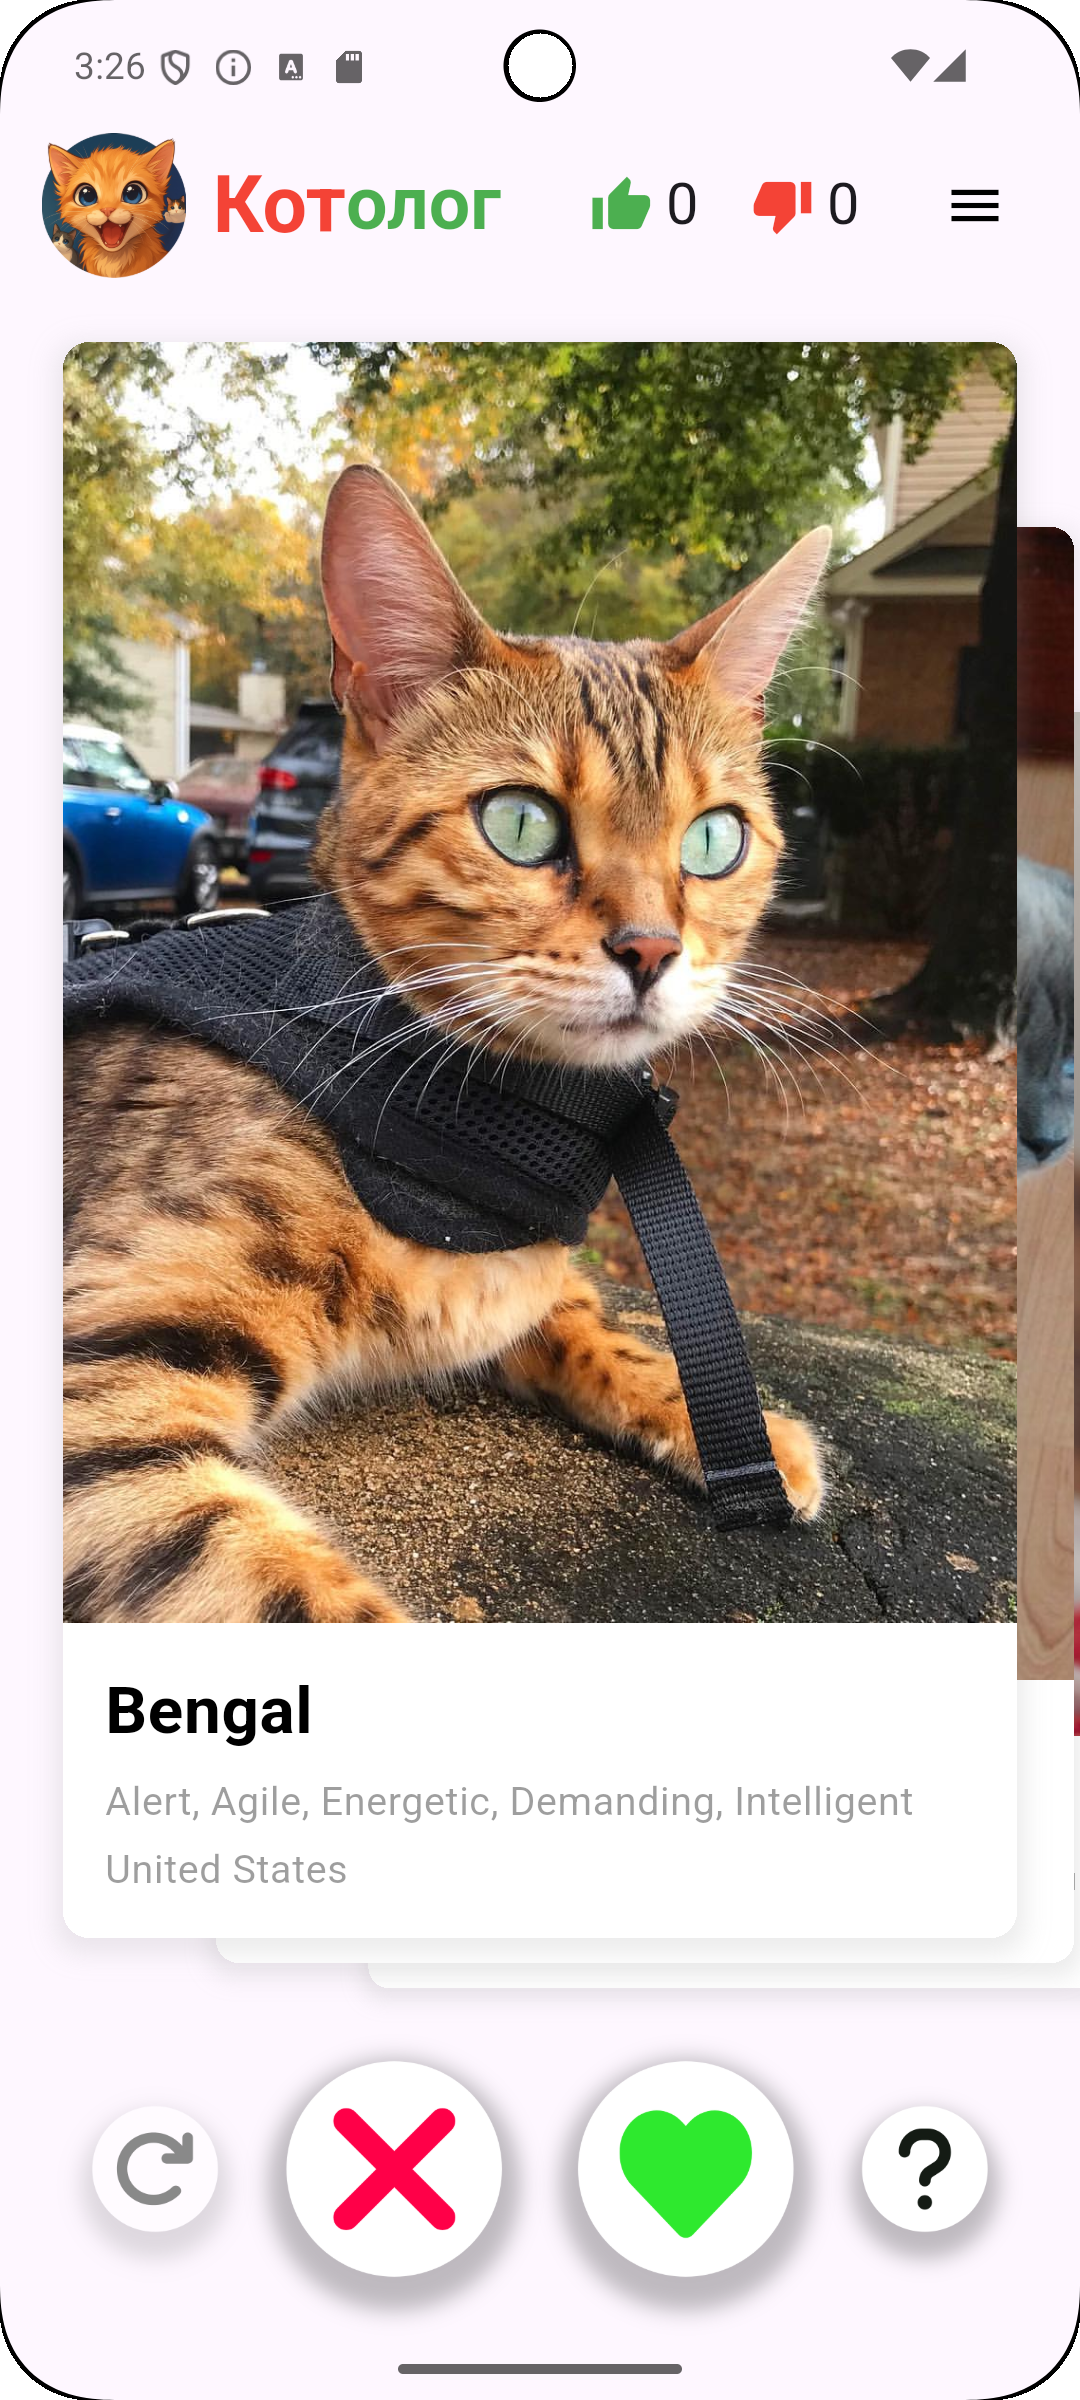
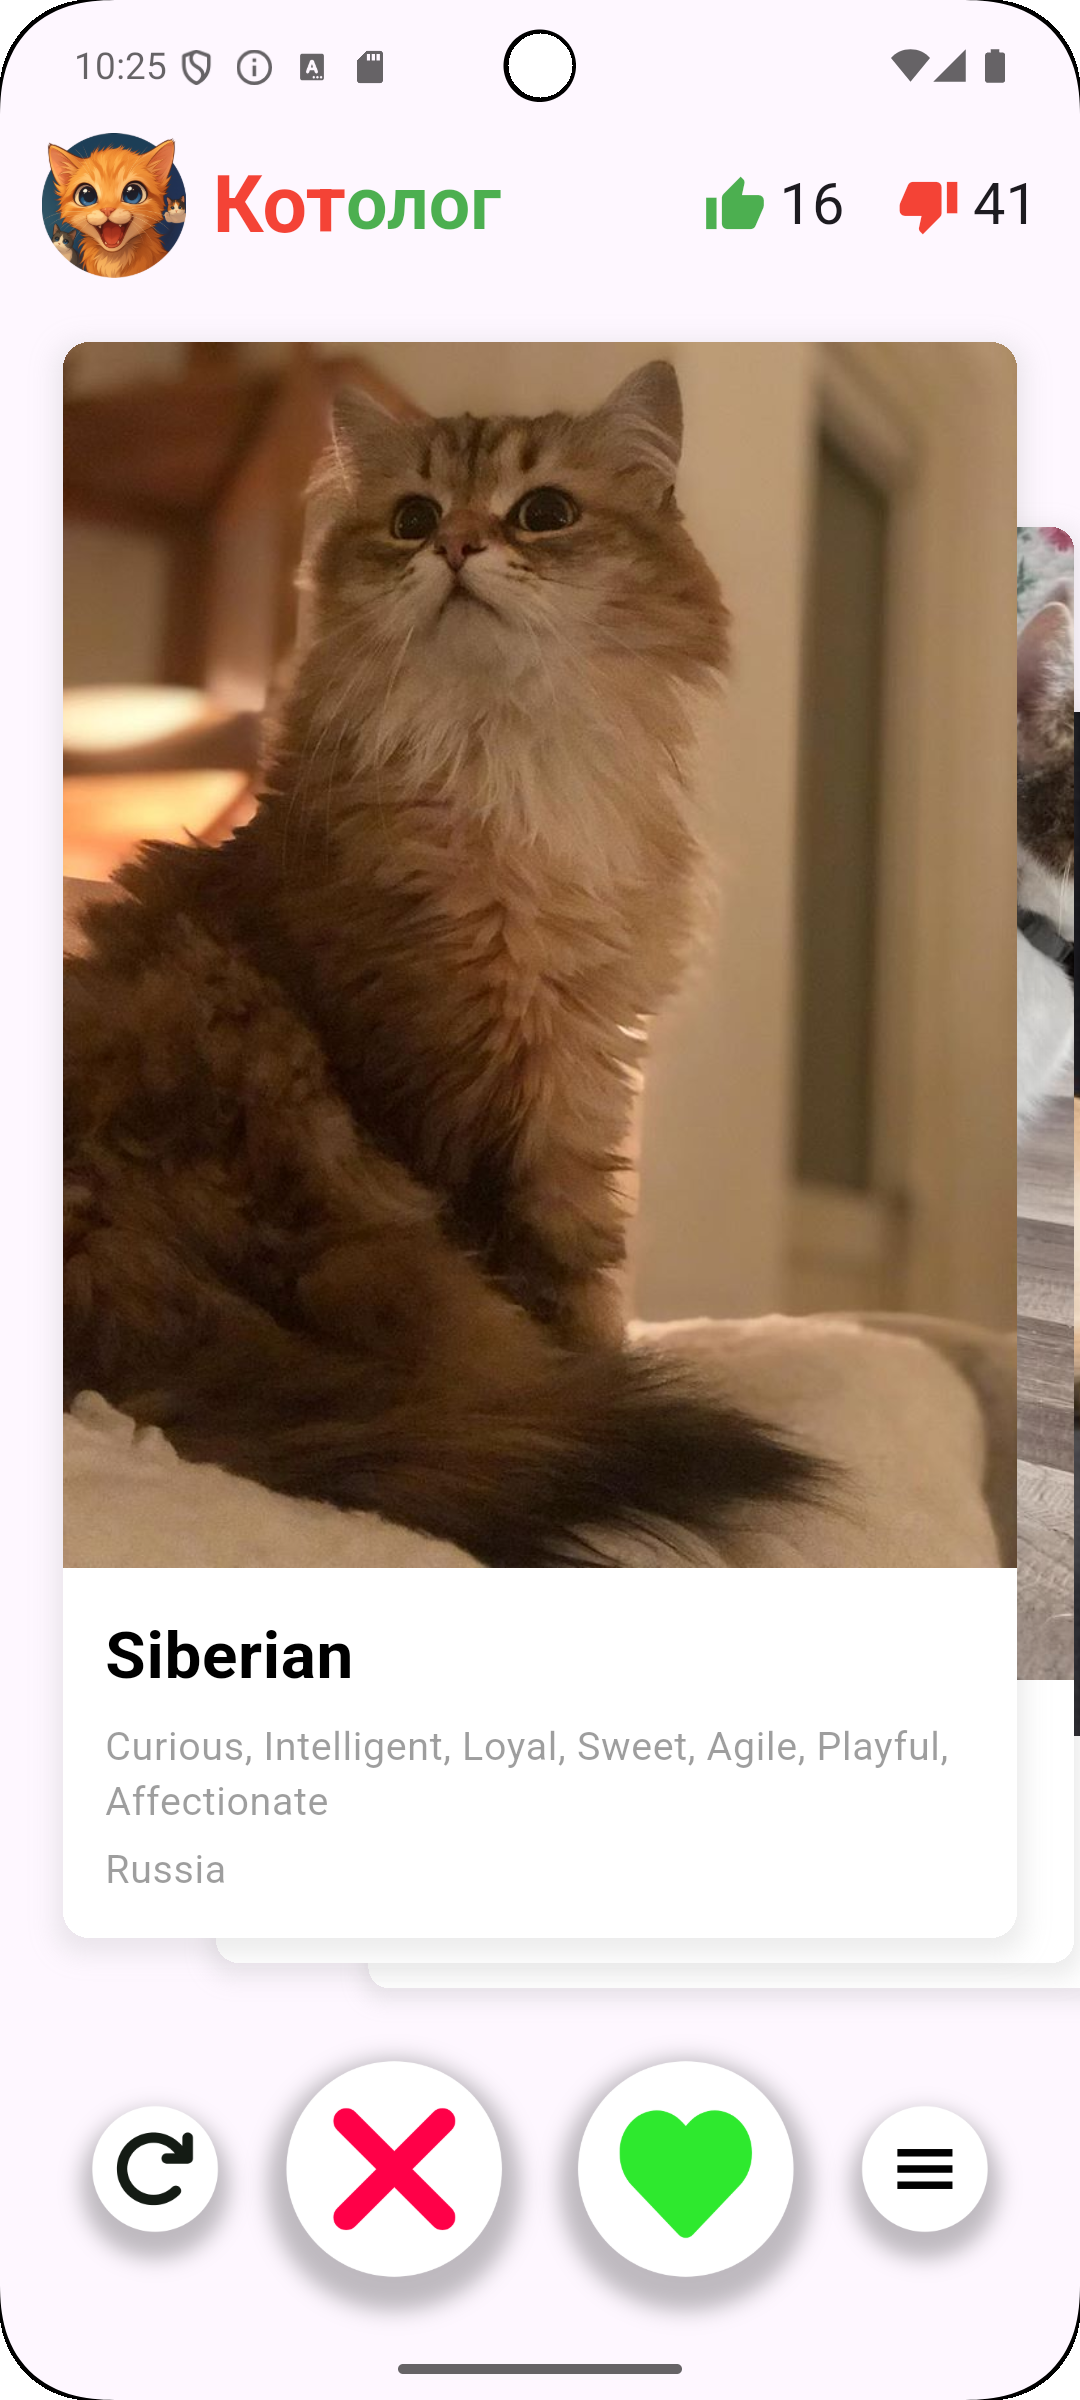
refactor: update imports and add dotenv change design and screenshots

diff --git a/lib/presentation/screens/home_screen.dart b/lib/presentation/screens/home_screen.dart
@@ -2,21 +2,21 @@ import 'package:flutter/material.dart';
 import 'package:flutter_bloc/flutter_bloc.dart';
 import 'package:flutter_card_swiper/flutter_card_swiper.dart';
 import 'dart:ui';
-import '../../data/models/cat.dart';
-import '../../domain/services/cat_service.dart';
-import '../blocs/liked_cats/liked_cats_state.dart';
-import '../widgets/cat_card.dart';
-import '../widgets/like_button.dart';
-import '../widgets/dislike_button.dart';
+import 'package:cat_tinder/data/models/cat.dart';
+import 'package:cat_tinder/data/services/cat_service.dart';
+import 'package:cat_tinder/presentation/blocs/liked_cats_state.dart';
+import 'package:cat_tinder/presentation/widgets/cat_card.dart';
+import 'package:cat_tinder/presentation/widgets/like_button.dart';
+import 'package:cat_tinder/presentation/widgets/dislike_button.dart';
 import 'detail_screen.dart';
 import 'liked_cats_screen.dart';
-import '../blocs/liked_cats/liked_cats_cubit.dart';
+import 'package:cat_tinder/presentation/blocs/liked_cats_cubit.dart';
 
 class HomeScreen extends StatefulWidget {
   const HomeScreen({super.key});
 
   @override
-  _HomeScreenState createState() => _HomeScreenState();
+  State<HomeScreen> createState() => _HomeScreenState();
 }
 
 class _HomeScreenState extends State<HomeScreen> {
@@ -128,8 +128,11 @@ class _HomeScreenState extends State<HomeScreen> {
     );
   }
 
-  void _onInfoTap() {
-    _onCardTap(_catBuffer[_index]);
+  void _onMenuTap() {
+    Navigator.push(
+      context,
+      MaterialPageRoute(builder: (_) => const LikedCatsScreen()),
+    );
   }
 
   void _showErrorDialog() {
@@ -192,18 +195,6 @@ class _HomeScreenState extends State<HomeScreen> {
                     const Icon(Icons.thumb_down, color: Colors.red),
                     const SizedBox(width: 5),
                     Text('$dislikeCount'),
-                    const SizedBox(width: 20),
-                    IconButton(
-                      icon: const Icon(Icons.menu, color: Colors.black),
-                      onPressed: () {
-                        Navigator.push(
-                          context,
-                          MaterialPageRoute(
-                            builder: (_) => const LikedCatsScreen(),
-                          ),
-                        );
-                      },
-                    ),
                   ],
                 );
               },
@@ -220,17 +211,25 @@ class _HomeScreenState extends State<HomeScreen> {
                   child:
                       _catBuffer.isEmpty
                           ? const Center(
-                            child: Row(
+                            child: Column(
                               mainAxisAlignment: MainAxisAlignment.center,
-                              crossAxisAlignment: CrossAxisAlignment.center,
-                              spacing: 10,
                               children: [
-                                CircularProgressIndicator(),
                                 Text(
                                   'Загружаем котиков...',
                                   style: TextStyle(
-                                    fontSize: 16,
+                                    fontSize: 20,
                                     color: Colors.grey,
+                                  ),
+                                ),
+                                SizedBox(height: 5),
+                                SizedBox(
+                                  width: 200,
+                                  child: LinearProgressIndicator(
+                                    minHeight: 3,
+                                    backgroundColor: Colors.black12,
+                                    valueColor: AlwaysStoppedAnimation<Color>(
+                                      Colors.grey,
+                                    ),
                                   ),
                                 ),
                               ],
@@ -284,10 +283,10 @@ class _HomeScreenState extends State<HomeScreen> {
                             () => controller.swipe(CardSwiperDirection.right),
                       ),
                       FloatingActionButton(
-                        onPressed: _onInfoTap,
+                        onPressed: _onMenuTap,
                         backgroundColor: Colors.transparent,
                         shape: const CircleBorder(),
-                        child: Image.asset('assets/buttons/info.png'),
+                        child: Image.asset('assets/buttons/menu.png'),
                       ),
                     ],
                   ),

diff --git a/lib/presentation/screens/liked_cats_screen.dart b/lib/presentation/screens/liked_cats_screen.dart
@@ -4,8 +4,8 @@ import 'package:cached_network_image/cached_network_image.dart';
 import 'package:flutter/material.dart';
 import 'package:flutter_bloc/flutter_bloc.dart';
 import 'package:intl/intl.dart';
-import '../blocs/liked_cats/liked_cats_cubit.dart';
-import '../blocs/liked_cats/liked_cats_state.dart';
+import 'package:cat_tinder/presentation/blocs/liked_cats_cubit.dart';
+import 'package:cat_tinder/presentation/blocs/liked_cats_state.dart';
 import 'detail_screen.dart';
 
 class LikedCatsScreen extends StatefulWidget {
@@ -29,8 +29,8 @@ class _LikedCatsScreenState extends State<LikedCatsScreen> {
     return Scaffold(
       appBar: AppBar(
         title: const Text(
-          'Кладесь котиков',
-          style: TextStyle(fontSize: 30, fontWeight: FontWeight.bold),
+          'Кладезь котиков',
+          style: TextStyle(fontSize: 25, fontWeight: FontWeight.bold),
         ),
         actions: [
           IconButton(
@@ -47,7 +47,10 @@ class _LikedCatsScreenState extends State<LikedCatsScreen> {
             children: [
               if (_showFilter && state.breeds.isNotEmpty)
                 Padding(
-                  padding: const EdgeInsets.symmetric(horizontal: 16.0, vertical: 5.0),
+                  padding: const EdgeInsets.symmetric(
+                    horizontal: 16.0,
+                    vertical: 5.0,
+                  ),
                   child: DropdownButton<String>(
                     hint: const Text('Фильтр по породе'),
                     value: state.selectedBreed,

diff --git a/lib/data/services/cat_service.dart b/lib/data/services/cat_service.dart
@@ -1,0 +1,30 @@
+import 'dart:convert';
+import 'package:flutter_dotenv/flutter_dotenv.dart';
+import 'package:http/http.dart' as http;
+import 'package:cat_tinder/data/models/cat.dart';
+import 'package:flutter/material.dart';
+
+class CatService {
+  final String? apiKey = dotenv.env['API_KEY'];
+  final String? baseUrl = dotenv.env['BASE_URL'];
+
+  Future<List<Cat>> fetchRandomCats(int count) async {
+    try {
+      final response = await http.get(
+        Uri.parse('$baseUrl?has_breeds=1&limit=$count&api_key=$apiKey'),
+      );
+      if (response.statusCode == 200) {
+        final data = jsonDecode(response.body) as List;
+        return data.map((json) => Cat.fromJson(json)).toList();
+      } else {
+        throw Exception('Не удалось загрузить котиков');
+      }
+    } catch (e, stackTrace) {
+      debugPrint('Ошибка при загрузке котиков: $e');
+      debugPrintStack(stackTrace: stackTrace);
+      throw Exception('Не удалось загрузить котиков');
+    }
+
+
+  }
+}

diff --git a/lib/main.dart b/lib/main.dart
@@ -1,10 +1,12 @@
 import 'package:flutter/material.dart';
 import 'package:flutter_bloc/flutter_bloc.dart';
+import 'package:flutter_dotenv/flutter_dotenv.dart';
 import 'domain/di/di.dart' as di;
 import 'presentation/screens/home_screen.dart';
-import 'presentation/blocs/liked_cats/liked_cats_cubit.dart';
+import 'presentation/blocs/liked_cats_cubit.dart';
 
 void main() async {
+  await dotenv.load(fileName: ".env");
   await di.init();
   runApp(const MyApp());
 }

diff --git a/lib/presentation/screens/detail_screen.dart b/lib/presentation/screens/detail_screen.dart
@@ -1,5 +1,5 @@
 import 'package:flutter/material.dart';
-import '../../data/models/cat.dart';
+import 'package:cat_tinder/data/models/cat.dart';
 
 class CatDetailScreen extends StatelessWidget {
   final Cat cat;
@@ -14,7 +14,7 @@ class CatDetailScreen extends StatelessWidget {
         top: 100.0,
         left: 16.0,
         right: 16.0,
-        bottom: 150.0,
+        bottom: 120.0,
       ),
       decoration: BoxDecoration(
         color: Colors.white,

diff --git a/lib/domain/di/di.dart b/lib/domain/di/di.dart
@@ -1,7 +1,7 @@
 import 'package:get_it/get_it.dart';
 import 'package:cat_tinder/data/repositories/liked_cats_repository_impl.dart';
 import 'package:cat_tinder/domain/repositories/liked_cats_repository.dart';
-import '../../../presentation/blocs/liked_cats/liked_cats_cubit.dart';
+import 'package:cat_tinder/presentation/blocs/liked_cats_cubit.dart';
 
 final locator = GetIt.instance;
 

diff --git a/lib/presentation/blocs/liked_cats_cubit.dart b/lib/presentation/blocs/liked_cats_cubit.dart
@@ -1,5 +1,5 @@
 import 'package:flutter_bloc/flutter_bloc.dart';
-import '../../../data/models/cat.dart';
+import 'package:cat_tinder/data/models/cat.dart';
 import 'package:cat_tinder/domain/repositories/liked_cats_repository.dart';
 import 'liked_cats_state.dart';
 

diff --git a/lib/presentation/widgets/cat_card.dart b/lib/presentation/widgets/cat_card.dart
@@ -1,5 +1,5 @@
 import 'package:cached_network_image/cached_network_image.dart';
-import '../../data/models/cat.dart';
+import 'package:cat_tinder/data/models/cat.dart';
 import 'package:flutter/material.dart';
 
 class CatCard extends StatelessWidget {

diff --git a/lib/presentation/blocs/liked_cats_state.dart b/lib/presentation/blocs/liked_cats_state.dart
@@ -1,4 +1,4 @@
-import '../../../data/models/cat.dart';
+import 'package:cat_tinder/data/models/cat.dart';
 
 class LikedCatsState {
   final List<Cat> cats;
